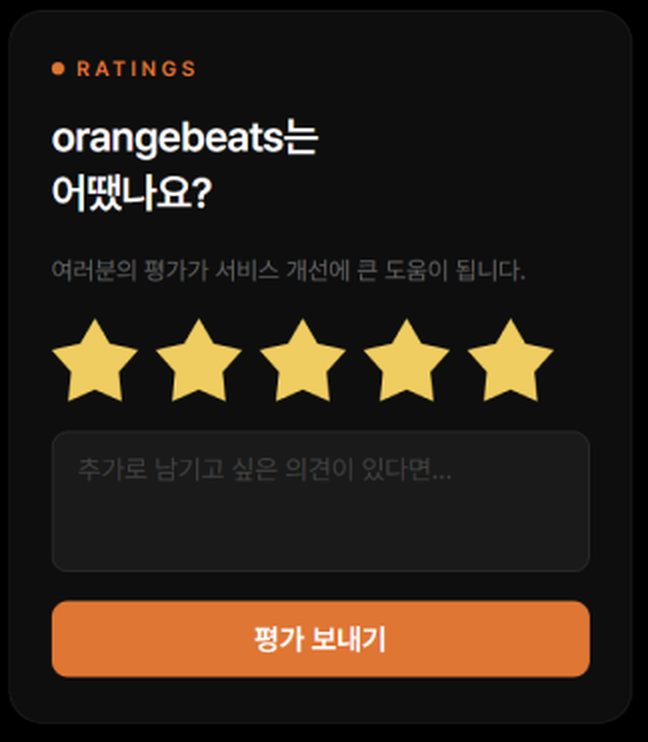
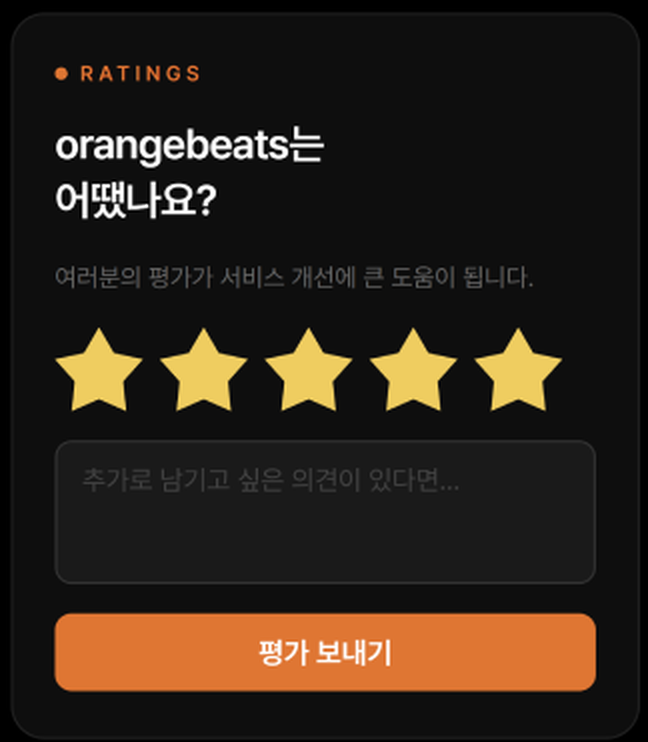
change image 9

diff --git a/frontend/site/src/pages/HomePage.jsx b/frontend/site/src/pages/HomePage.jsx
@@ -5,7 +5,7 @@ import SiteHeader from "../components/SiteHeader.jsx";
 
 const SESSION_KEY = "ob_admin_key";
 /** How to use PNG 캐시 무효화 — 이미지 교체 시 값만 올리면 됨 */
-const HOWTO_IMG_V = "20260515figma6";
+const HOWTO_IMG_V = "20260211figma333244";
 const howtoImg = (filename) => `/assets/home/${filename}?v=${HOWTO_IMG_V}`;
 const howtoImgSrcSet = (filename, filename2x) =>
   `${howtoImg(filename)} 1x, ${howtoImg(filename2x)} 2x`;